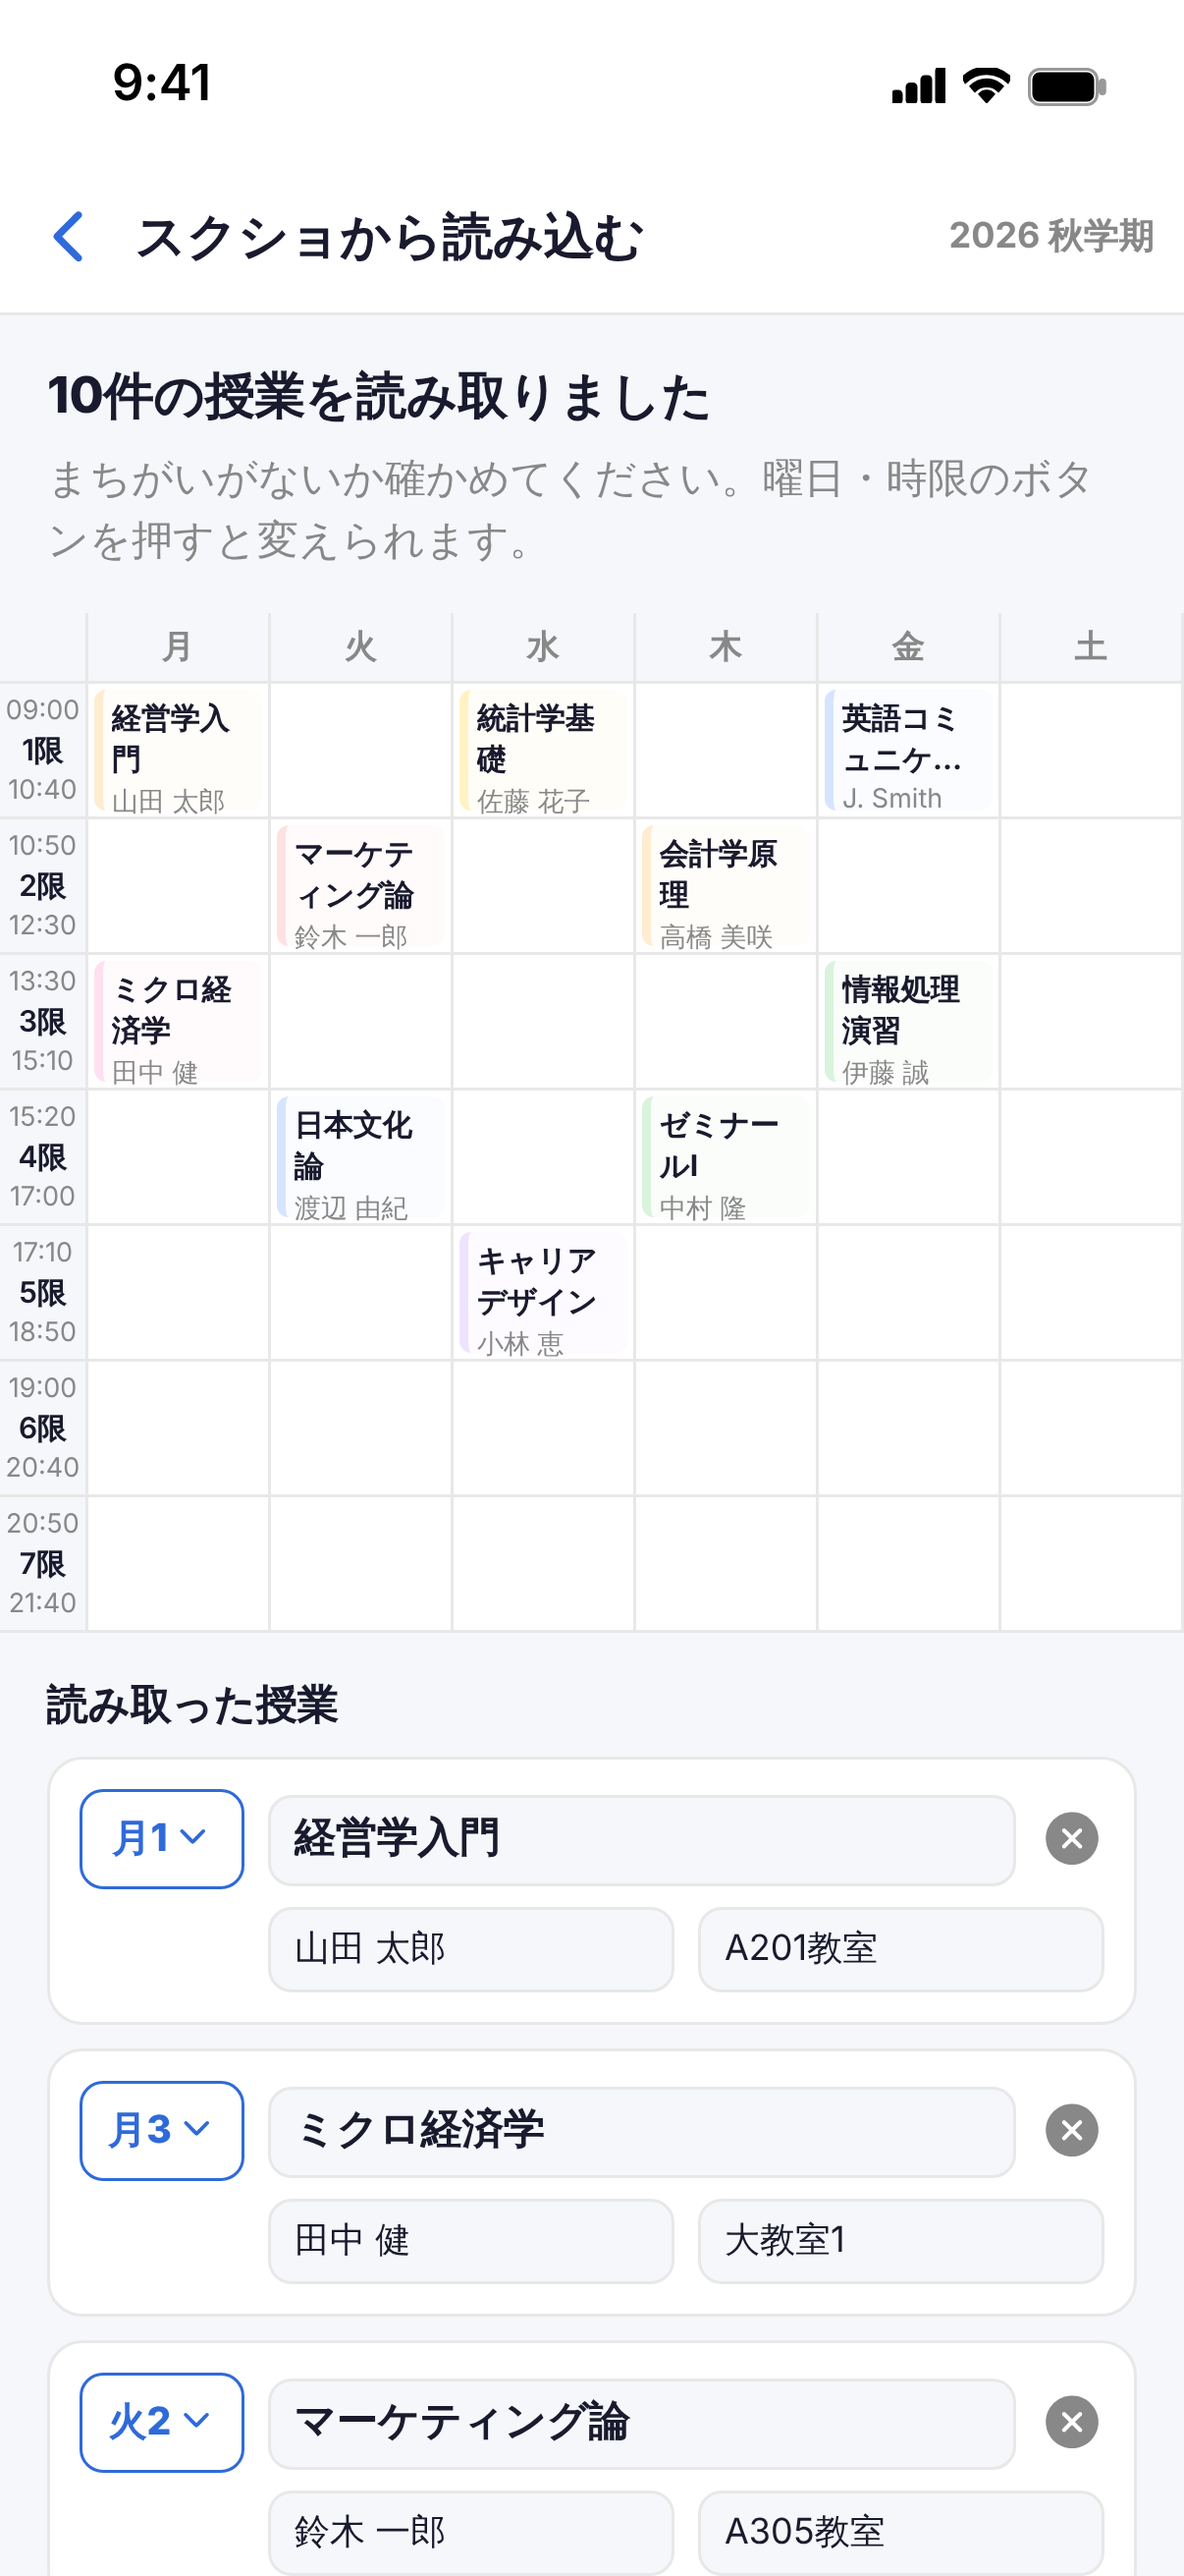
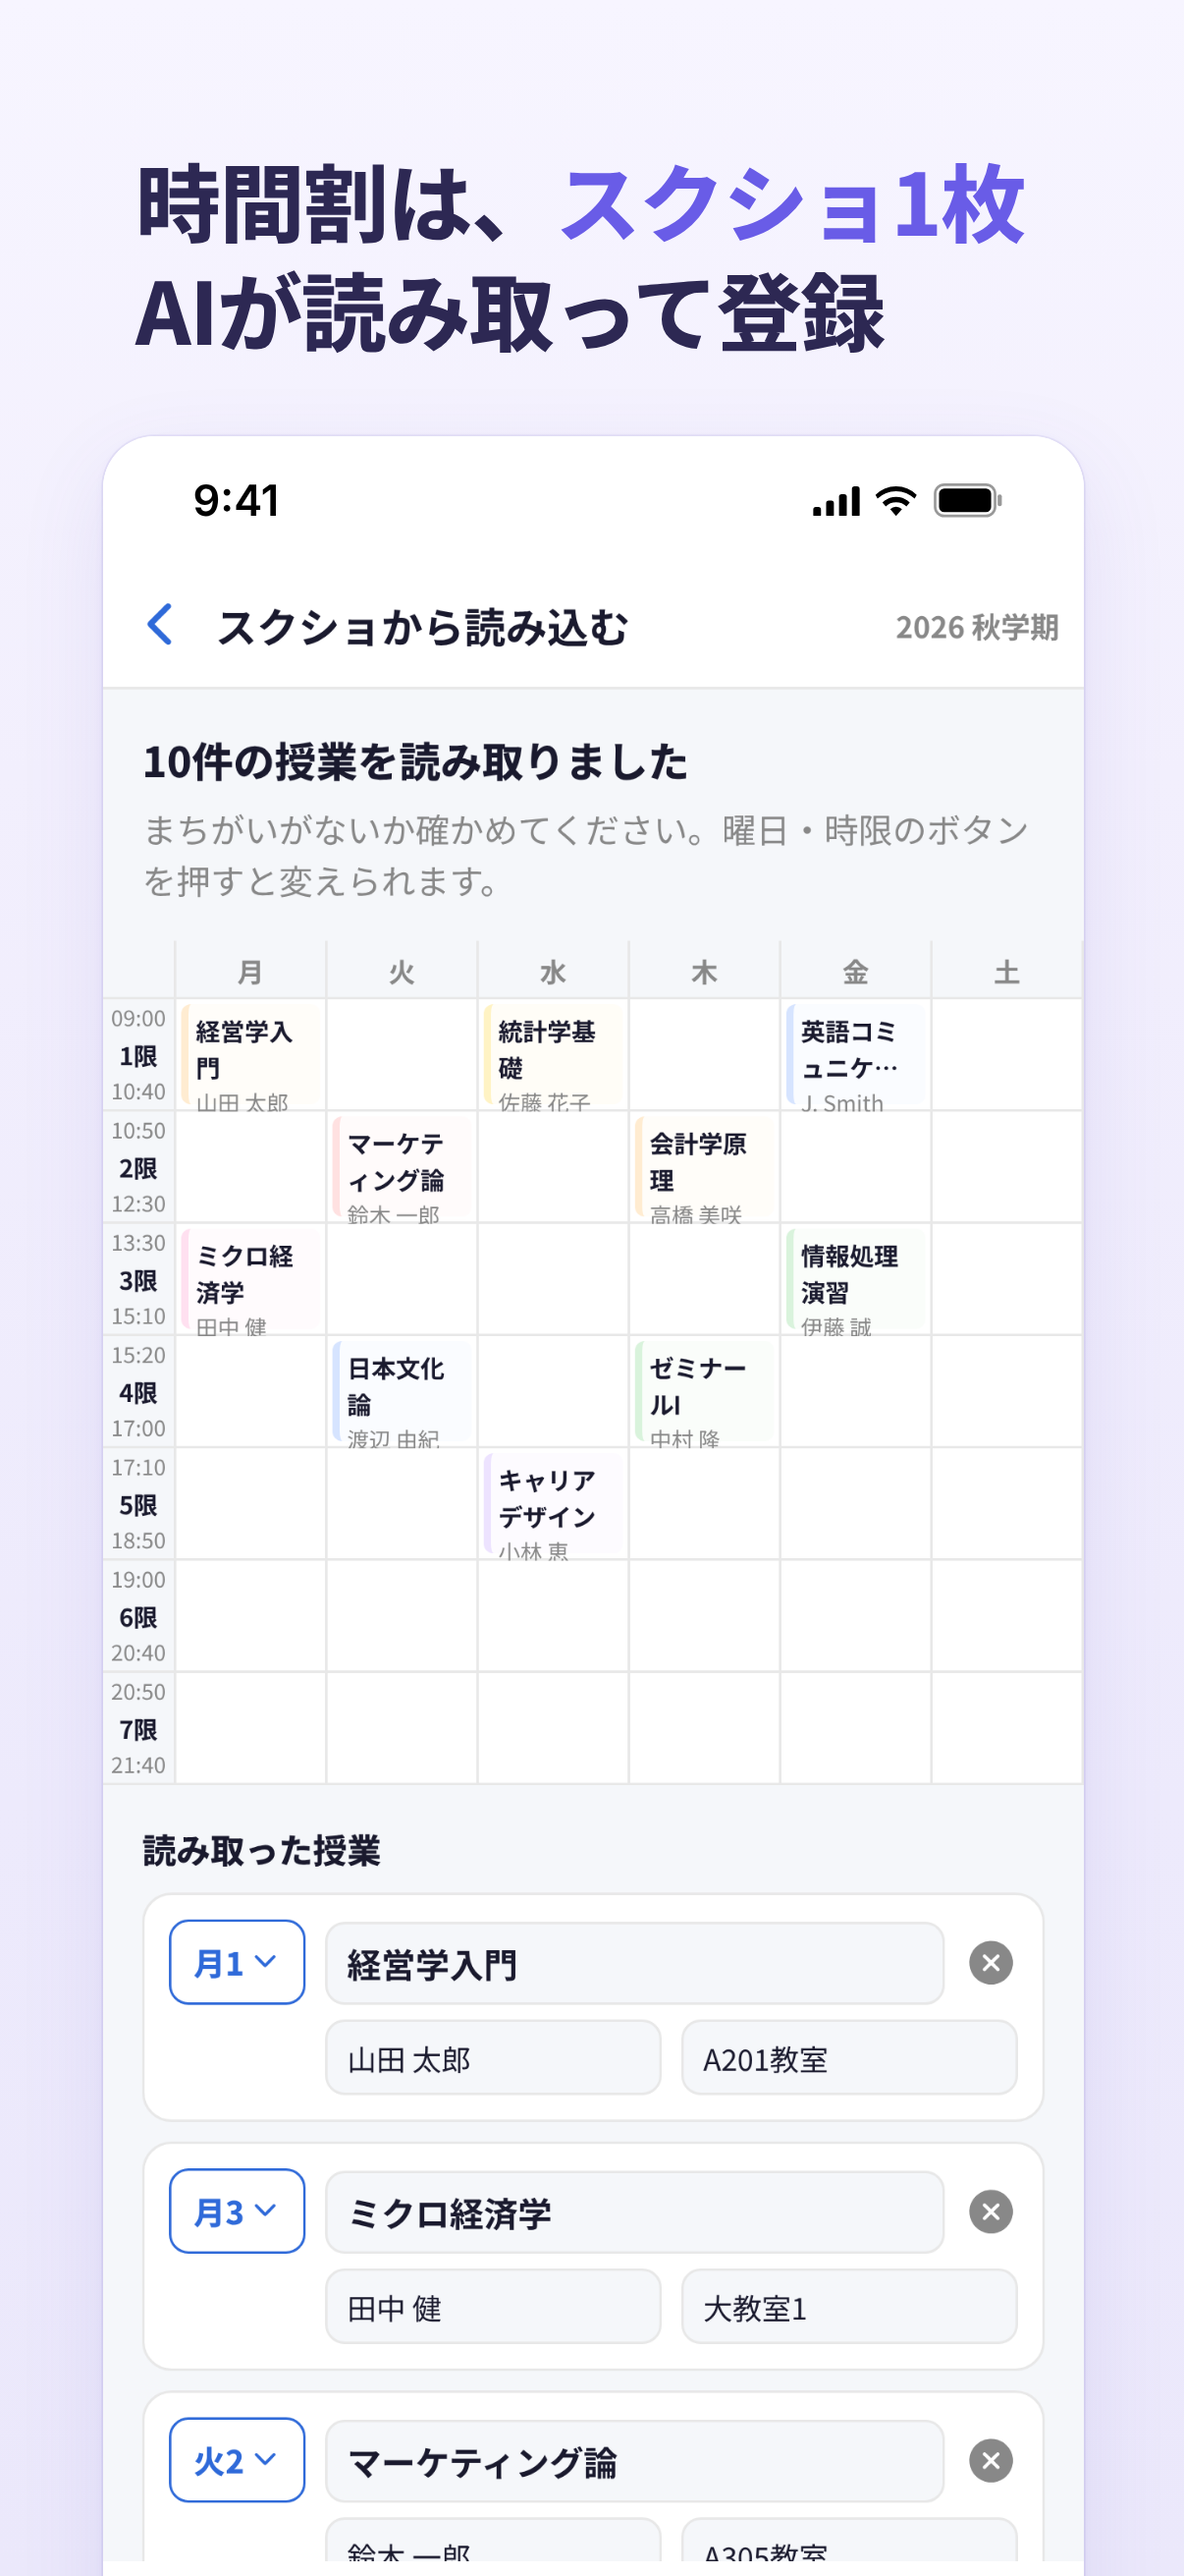
docs(스토어): 1.1.0 스크린샷 2장을 1.0 디자인에 맞춤 + 11/19 iOS 1.1.0 심사 제출 기록 (#142)
* docs(스토어): 1.1.0 스크린샷 2장을 1.0 디자인에 맞춰 다시 만듦 (제목 2줄 + 폰 카드)

준희 「예전 것이 디자인이 더 예쁘다」(11/19)
- 1.0 스크린샷과 같은 틀: 연보라 그라데이션 · 굵은 제목 2줄(강조 보라) · 흰 폰 카드 + 상태 표시줄, 1206×2622
- ① 「時間割は、スクショ1枚 / AIが読み取って登録」 + 시간표 읽기 확인 화면(샘플 결과 재생)
- ② 「コメントもメッセージも / すぐ通知で見逃さない」 + 알림 설정 + 알림 배너 2개
  (functions/push.js 의 실제 형식 그대로, 글 내용은 예시)
- 글꼴 Noto Sans JP(OFL). 임시 게스트 계정은 삭제

Claude-Session: https://claude.ai/code/session_011SEyaHkMySqeXxYreWZspE

* docs(출시): 11/19 iOS 1.1.0 심사 제출 완료 기록 (빌드 11 · 자동 출시)

- MY-TASKS: iOS 빌드·제출·ASC 입력·심사 제출 완료 체크
- RELEASE-PLAN·DECISIONS·AGENTS: 11/19 제출, 승인되면 §4-2 순서, 안드로이드 이어서
- Anthropic 결제는 11/27 크레딧 만료 전(준희 리마인드 요청) — 비용 수준 기록

Claude-Session: https://claude.ai/code/session_011SEyaHkMySqeXxYreWZspE

---------

diff --git a/docs/STORE-1.1.0.md b/docs/STORE-1.1.0.md
@@ -163,14 +163,15 @@ Age rating: 18+.
 
 ---
 
-## 5. 스크린샷 (2장 추가 — 11/17 Claude 촬영 완료)
+## 5. 스크린샷 (2장 추가 — 11/17 촬영 · 11/19 1.0 디자인에 맞춰 다시 만듦)
 
 | 파일 | 화면 | 크기 |
 |---|---|---|
-| [`docs/store/1.1.0/ja-1-ocr.png`](store/1.1.0/ja-1-ocr.png) | 시간표 읽기 확인 화면 — 「10件の授業を読み取りました」 + 시간표 미리보기 + 읽은 수업 목록 | 1206×2622 (6.3") |
-| [`docs/store/1.1.0/ja-2-push.png`](store/1.1.0/ja-2-push.png) | 프로필 → 通知 — 「コメント・返信」「メッセージ」 켜짐 + 「お知らせや広告の通知は送りません」 | 1206×2622 (6.3") |
+| [`docs/store/1.1.0/ja-1-ocr.png`](store/1.1.0/ja-1-ocr.png) | 제목 「時間割は、**スクショ1枚** / AIが読み取って登録」 + 시간표 읽기 확인 화면(「10件の授業を読み取りました」 + 미리보기 + 목록) | 1206×2622 (6.3") |
+| [`docs/store/1.1.0/ja-2-push.png`](store/1.1.0/ja-2-push.png) | 제목 「コメントもメッセージも / **すぐ通知**で見逃さない」 + 프로필 → 通知 + 알림 배너 2개(`functions/push.js` 의 실제 형식: 댓글 = 「글 제목」+댓글 앞부분 / 쪽지 = 본문 없음, 글 내용은 예시) | 1206×2622 (6.3") |
 
 - 크기는 **1.0 때 ASC 에 올린 5장과 같은 1206×2622**(MY-TASKS 「ASC 입력 완료」 기록) — 같은 칸에 넣어야 해서 맞췄다. 일본어판만 — 다른 언어는 안 올리면 일본어 것이 쓰인다
+- 🔁 **11/19**: 준희 「예전 것(1.0 5장)이 디자인이 더 예쁘다」 → **1.0 과 같은 틀**(연보라 그라데이션 배경 · 굵은 제목 2줄, 강조 부분 보라 `#695CE7` · 흰 폰 카드 + 상태 표시줄 9:41)로 다시 합성. 제목·앱 화면 글꼴은 Noto Sans JP(OFL). 1.0 의 5장 **앞에** 둔다
 - 만든 방법(재현용): 앱과 **같은 화면 코드의 웹판**을 아이폰 6.3" 화면 크기(402×820pt ×3)로 찍고 iOS 상태 표시줄(9:41)을 얹음(촬영 스크립트는 Claude 세션 임시 폴더에만 있음). 임시 게스트 계정은 끝나고 삭제
   - ① 은 **11/14 실서버가 샘플 이미지(`docs/review/sample-timetable.png`)를 실제로 읽은 결과**를 재생(AI 재호출·사용 횟수 소모 없음). 내용은 가짜 시간표라 개인정보 없음
   - ② 는 웹에서 원래 숨겨진 알림 화면을 **촬영용 임시 빌드에서만** 보이게 함(저장소엔 안 들어감). 웹 스위치 손잡이 색만 아이폰과 같은 흰색으로 맞춤

diff --git a/docs/MY-TASKS.md b/docs/MY-TASKS.md
@@ -34,10 +34,10 @@
 - **오늘부터 네이티브 동결**: `app.json`·플러그인·네이티브 부품 변경 금지. JS 는 계속 OTA
 
 ### 11/19(수)~ — 빌드·제출 (iOS) — 원래 11/22~24
-- [ ] `eas build --profile release --platform ios` (이 빌드만 1.1.0·채널 production. 🔴 `app.json` 의 version 은 1.0.0 그대로)
-- [ ] `eas submit --platform ios --profile production --id <빌드 ID>` → ASC 처리 완료 → 앱 페이지에서 **새 버전 1.1.0** 만들기 → 그 빌드 연결
-- [ ] ASC 입력 — 초안은 전부 [STORE-1.1.0](STORE-1.1.0.md): ① 「이 버전의 새로운 기능」 일·한·영(§1) ② 앱 개인정보 → **사진 또는 동영상** 추가(수집·신원 연결 안 함·추적 안 함·앱 기능, §4) ③ 심사 메모 교체(§3 영어) + **샘플 이미지 첨부** ④ 스크린샷 2장 교체 ⑤ 연령 18+·데모 계정 그대로
-- [ ] **심사 제출(Submit for Review)** — 목표 ~~11/24~~ **11/19~20**. 📌 붙여넣기 전에 `git log origin/master -- docs/STORE-1.1.0.md` 와 열린 PR 을 먼저 본다(11/02 교훈)
+- [x] `eas build --profile release --platform ios` → **11/19 완료(빌드 11)**. 🔴 `app.json` 의 version 은 1.0.0 그대로
+- [x] `eas submit --platform ios --latest` → ASC 처리 완료 → **새 버전 1.1.0** 에 빌드 11 연결(11/19)
+- [x] (11/19 완료 — 새 기능 문구 일·한·영 · 스크린샷 2장(1.0 디자인, 맨 앞) · 심사 메모+샘플 첨부 · 개인정보 「사진 또는 비디오」 게시 · 자동 출시) ASC 입력 — 초안은 전부 [STORE-1.1.0](STORE-1.1.0.md): ① 「이 버전의 새로운 기능」 일·한·영(§1) ② 앱 개인정보 → **사진 또는 동영상** 추가(수집·신원 연결 안 함·추적 안 함·앱 기능, §4) ③ 심사 메모 교체(§3 영어) + **샘플 이미지 첨부** ④ 스크린샷 2장 교체 ⑤ 연령 18+·데모 계정 그대로
+- [x] **🎉 11/19 심사 제출(Submit for Review) 완료** — 목표 ~~11/24~~ **11/19~20**. 📌 붙여넣기 전에 `git log origin/master -- docs/STORE-1.1.0.md` 와 열린 PR 을 먼저 본다(11/02 교훈)
 - [ ] 제출 직후 Claude 세션에 알리기. 심사 기간의 1.0.0 사용자용 OTA 는 `npm run ota -- "1.0.x: …"` 로만(런타임이 달라 심사 빌드엔 안 섞인다)
 
 ### 11/25~11/30 — 심사 대응 → 공개

diff --git a/AGENTS.md b/AGENTS.md
@@ -59,6 +59,7 @@ Read the exact versioned docs at https://docs.expo.dev/versions/v57.0.0/ before 
 → 4. 그 세션의 **입력 문서**만 읽기
 
 ### 지금 상황
+- 🎉 **2026-11-19 iOS 1.1.0 심사 제출 완료**(빌드 11·자동 출시, 11/19 동결·제출로 한 번 더 앞당김). 승인되면 [RELEASE-PLAN §4-2](docs/RELEASE-PLAN-2026-12.md) 순서. 안드로이드 1.1.0 은 이어서
 - **🔴 데드라인(2026-11-17 앞당김): 스토어 업데이트 1번 = 「1.1.0」. 11/21 네이티브 동결 → 11/24 iOS 심사 제출 → 11/30 승인 목표**(안드로이드는 Play 1.0.0 정식 공개 직후). 못 지키면 12/12 제출·12/19 승인이 예비, 진짜 기한은 준희 12월 말 캐나다 출국 전. 계획표 [docs/RELEASE-PLAN-2026-12.md §3-0](docs/RELEASE-PLAN-2026-12.md) · 준희 날짜별 체크리스트 [docs/MY-TASKS.md](docs/MY-TASKS.md) (ROADMAP-1.1 §7 의 「12/15 OTA · 1월 말 1.2」는 대체됨). JS 만 바뀌는 것은 그 사이에도 OTA 로 계속 낸다
 - **iOS**: 10/31 리젝(1.2 익명 UGC) → 11/02 빌드 5 재제출 → **🎉 11/06 승인·App Store 배포 완료**(`apps.apple.com/jp/app/id6825671804`) → **🚀 11/06 첫 OTA(1.0.1) 배포 완료**(S4 게시판 홈·초대 링크·댓글 수·스크랩 포함). 직후 운영은 [OTA-2026-11 §5](docs/OTA-2026-11.md) /
   **Android**: 11/11 프로덕션 액세스 승인 → 11/14 프로덕션 「3 (1.0.0)」 제출 → **🎉 11/17 정식 공개 확인**(스토어 페이지 비로그인 공개) → #132 `PLAY_STORE_PUBLIC = true`(웹 재배포로 반영)

diff --git a/docs/DECISIONS.md b/docs/DECISIONS.md
@@ -92,6 +92,8 @@
 
 | | 결정 | 상세 |
 |---|---|---|
+| ✅ | 🎉 **iOS 1.1.0 심사 제출 완료**(11/19, 빌드 11) — **자동 출시**(승인되면 바로 공개: 홍보 유입이 바로 새 기능을 보게). 스크린샷 2장은 1.0 디자인에 맞춰 다시 만들어 맨 앞(#142) | [STORE-1.1.0](STORE-1.1.0.md) |
+| ✅ | **Anthropic 결제는 11/27 크레딧 만료 전에**(준희 「나중에 리마인드」) — 시간표 읽기 1장 ≈ $0.014, 1인·학기당 1회, 전체 하루 상한 300건(`DAILY_CAP`) → 최악이어도 하루 ≈ $4 | [TIMETABLE-OCR §3-1](TIMETABLE-OCR.md) |
 | ✅ | **1.1.0 을 오늘 바로 빌드·제출** (준희): 홍보에서 AI 시간표 읽기를 선전 중 → 지금 스토어(1.0.0)엔 그 기능이 없어 받은 사람이 당황한다. **오늘 네이티브 동결**. 서버 함수·웹·방침은 이미 최신(재배포 불필요) | [RELEASE-PLAN §3-0](RELEASE-PLAN-2026-12.md) · [MY-TASKS](MY-TASKS.md) |
 | ✅ | **심사 메모 수정**: 데모 계정은 2026 春·秋 둘 다 시간표가 있어 홈에 AI 읽기 입구가 안 보인다 → 「`2025年 秋学期`(빈 학기)로 바꿔서」 + 「새로 설치하면 처음 설정 ②에도 있음」. **데모 계정 시간표는 비우지 않는다**(친구 겹침 데모 유지). 위젯·비밀번호 변경도 노트에 추가(2,711자) | [STORE-1.1.0 §3](STORE-1.1.0.md) |
 

diff --git a/docs/RELEASE-PLAN-2026-12.md b/docs/RELEASE-PLAN-2026-12.md
@@ -5,6 +5,7 @@
 > 🔁 **2026-11-17 앞당김(준희 「앞당기자」)**: N1~N5 코드가 전부 끝나고 시험판 빌드 8·9(위젯 포함)까지 올라가 있어
 > **11월 말 승인**을 목표로 당긴다 — **11/21 네이티브 동결 · 11/24 iOS 심사 제출 · 11/30 승인 목표**. 안드로이드는 Play 1.0.0 정식 공개 직후 1.1.0.
 > 11/30 까지 승인이 안 나면 아래 §3 의 12/12·12/19 일정이 예비로 살아 있다. 날짜별 할 일은 §3-0 과 [MY-TASKS](MY-TASKS.md).
+> 🎉 **2026-11-19 iOS 1.1.0 심사 제출 완료**(빌드 11 · 자동 출시) → 승인되면 §4-2 순서(`STORE_LATEST` → 1.0.0 마지막 OTA → `app.json` 1.1.0). 안드로이드 1.1.0 은 이어서 진행.
 > 🔁 **2026-11-19 한 번 더 앞당김(준희)**: 홍보가 이미 「AI 시간표 읽기」를 선전 중이라 **오늘(11/19) 네이티브 동결 → 바로 release 빌드·제출**. N1~N5 실기기 확인 완료, 서버·웹·방침은 이미 최신, 데모 계정은 심사 메모로 해결(비울 필요 없음). 안드로이드도 Play 1.0.0 공개(11/17)로 지금 가능.
 > **이유(준희)**: 홍보를 병행 중이다. 홍보로 들어온 유저가 오래 남으려면 앱이 완성에 가까워야 한다.
 > → **심사 항목이 늘어 오래 걸리더라도 한 번에** 넣는다.
